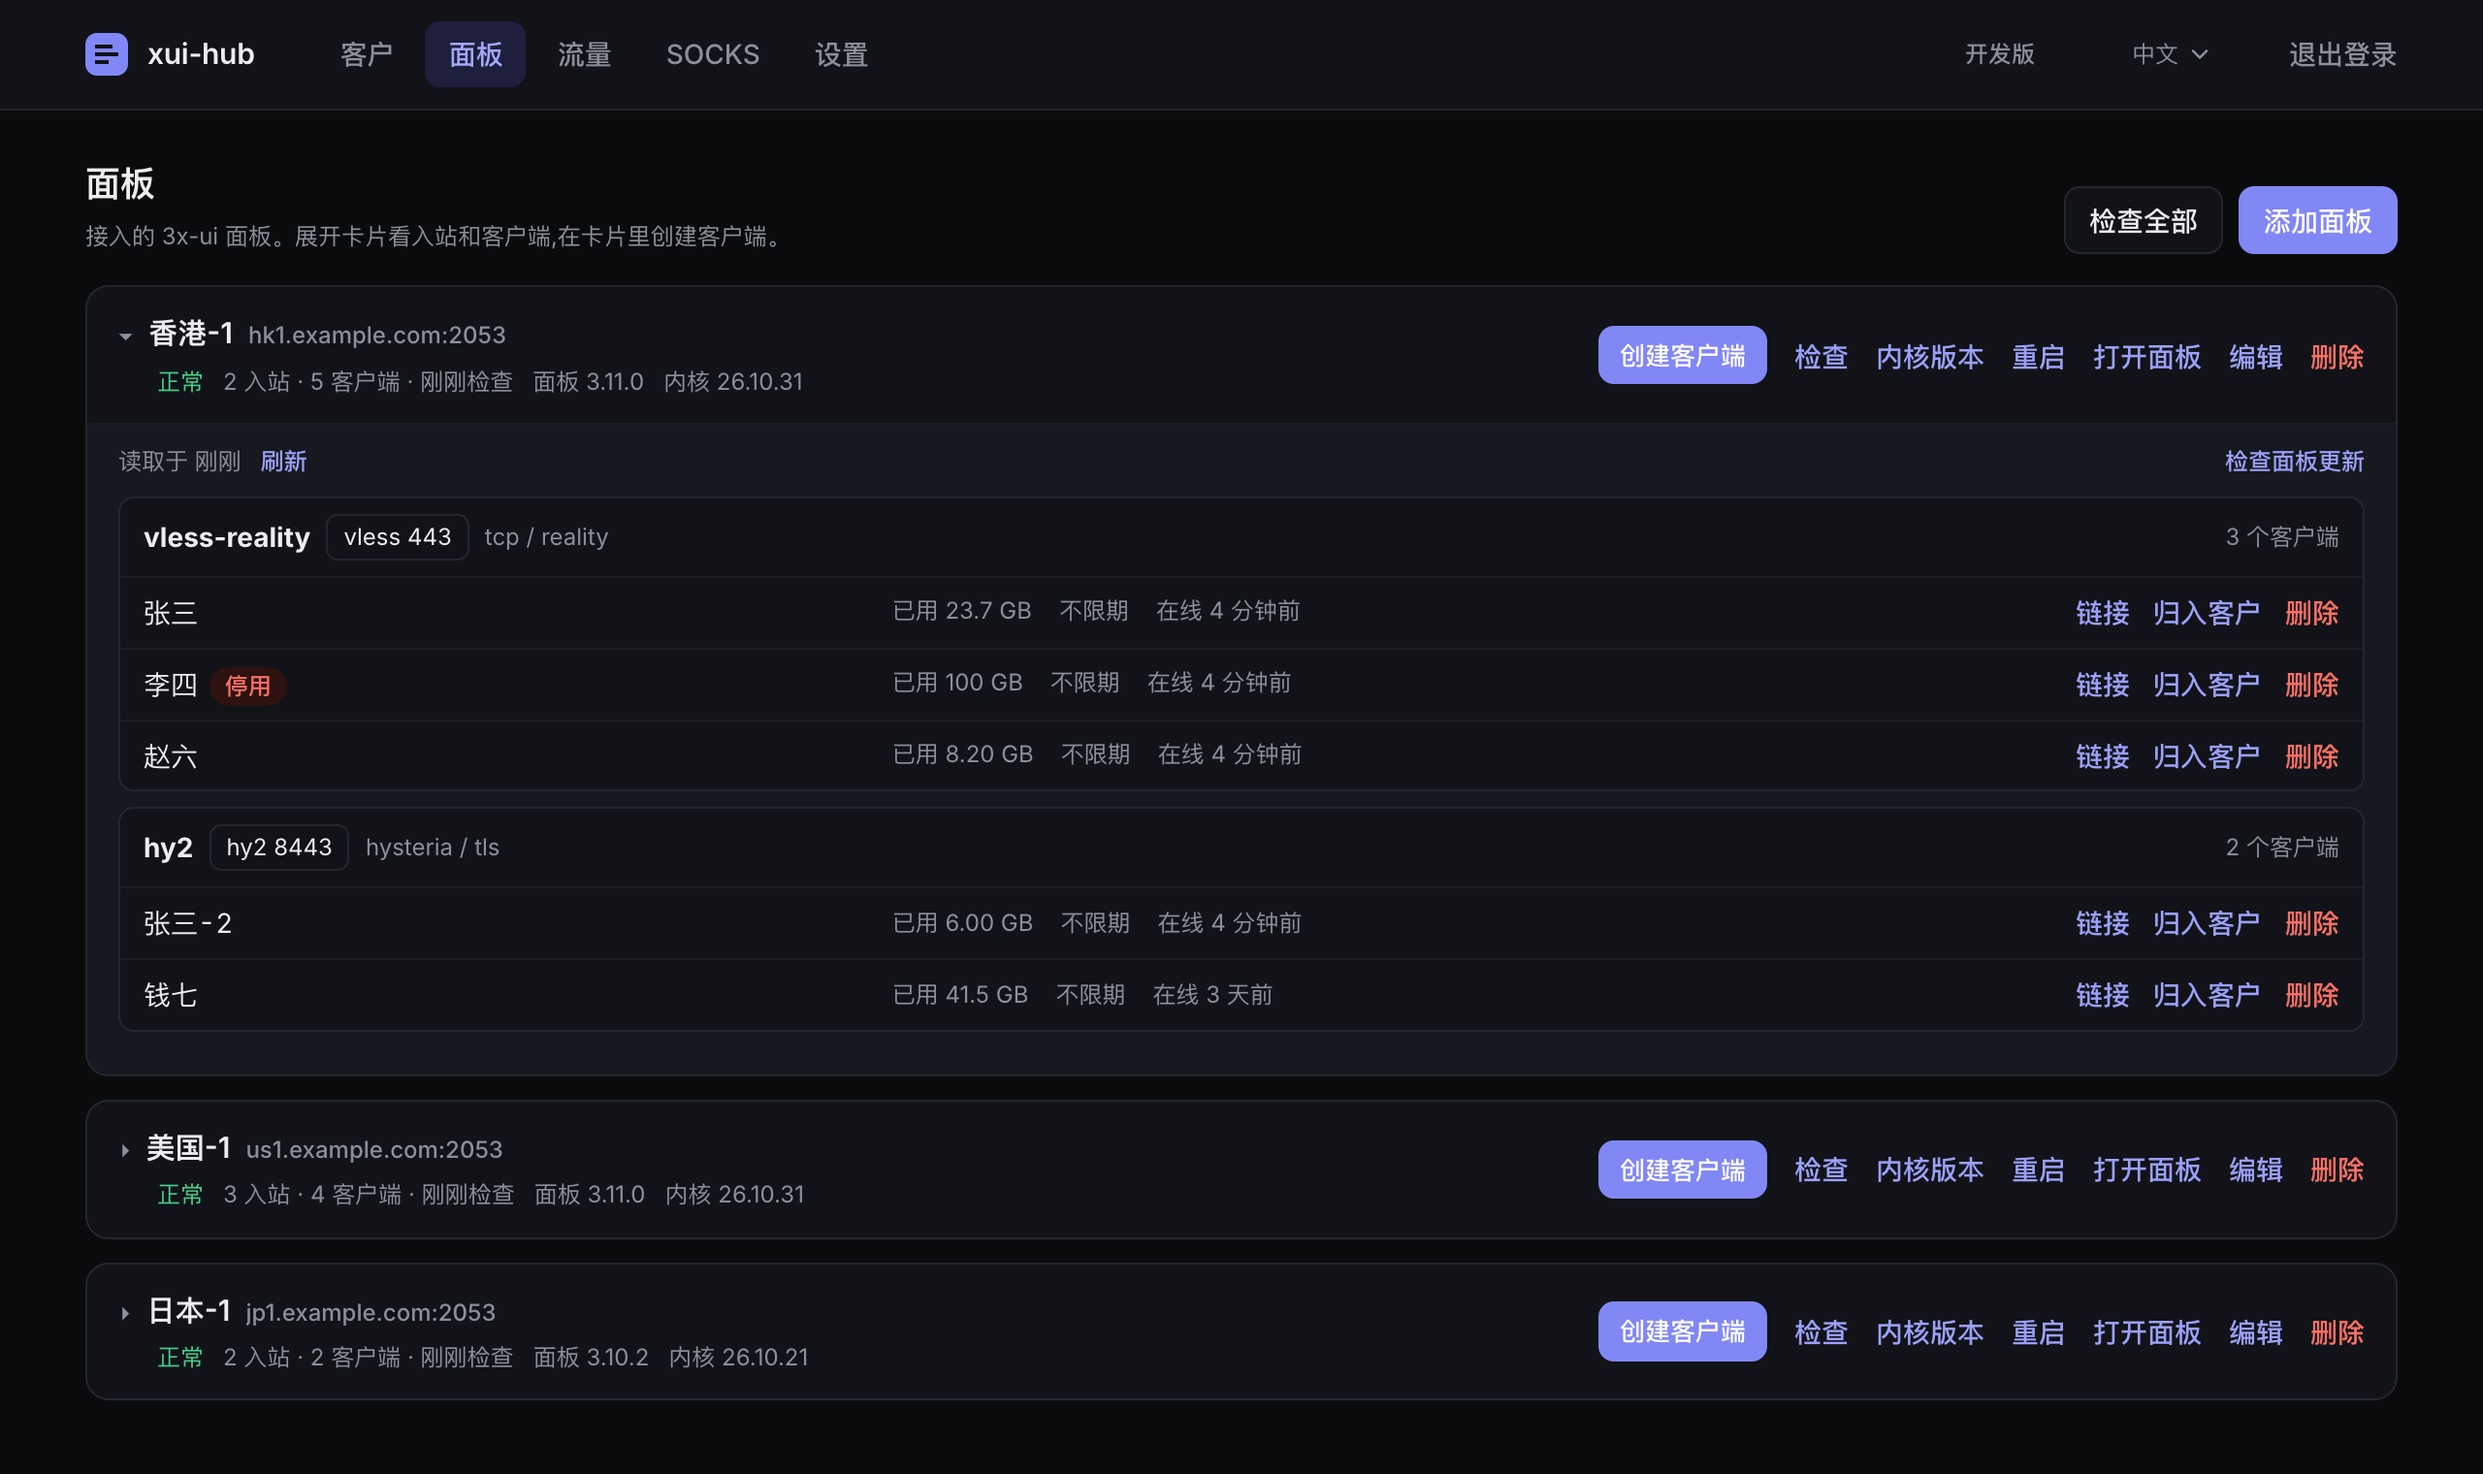
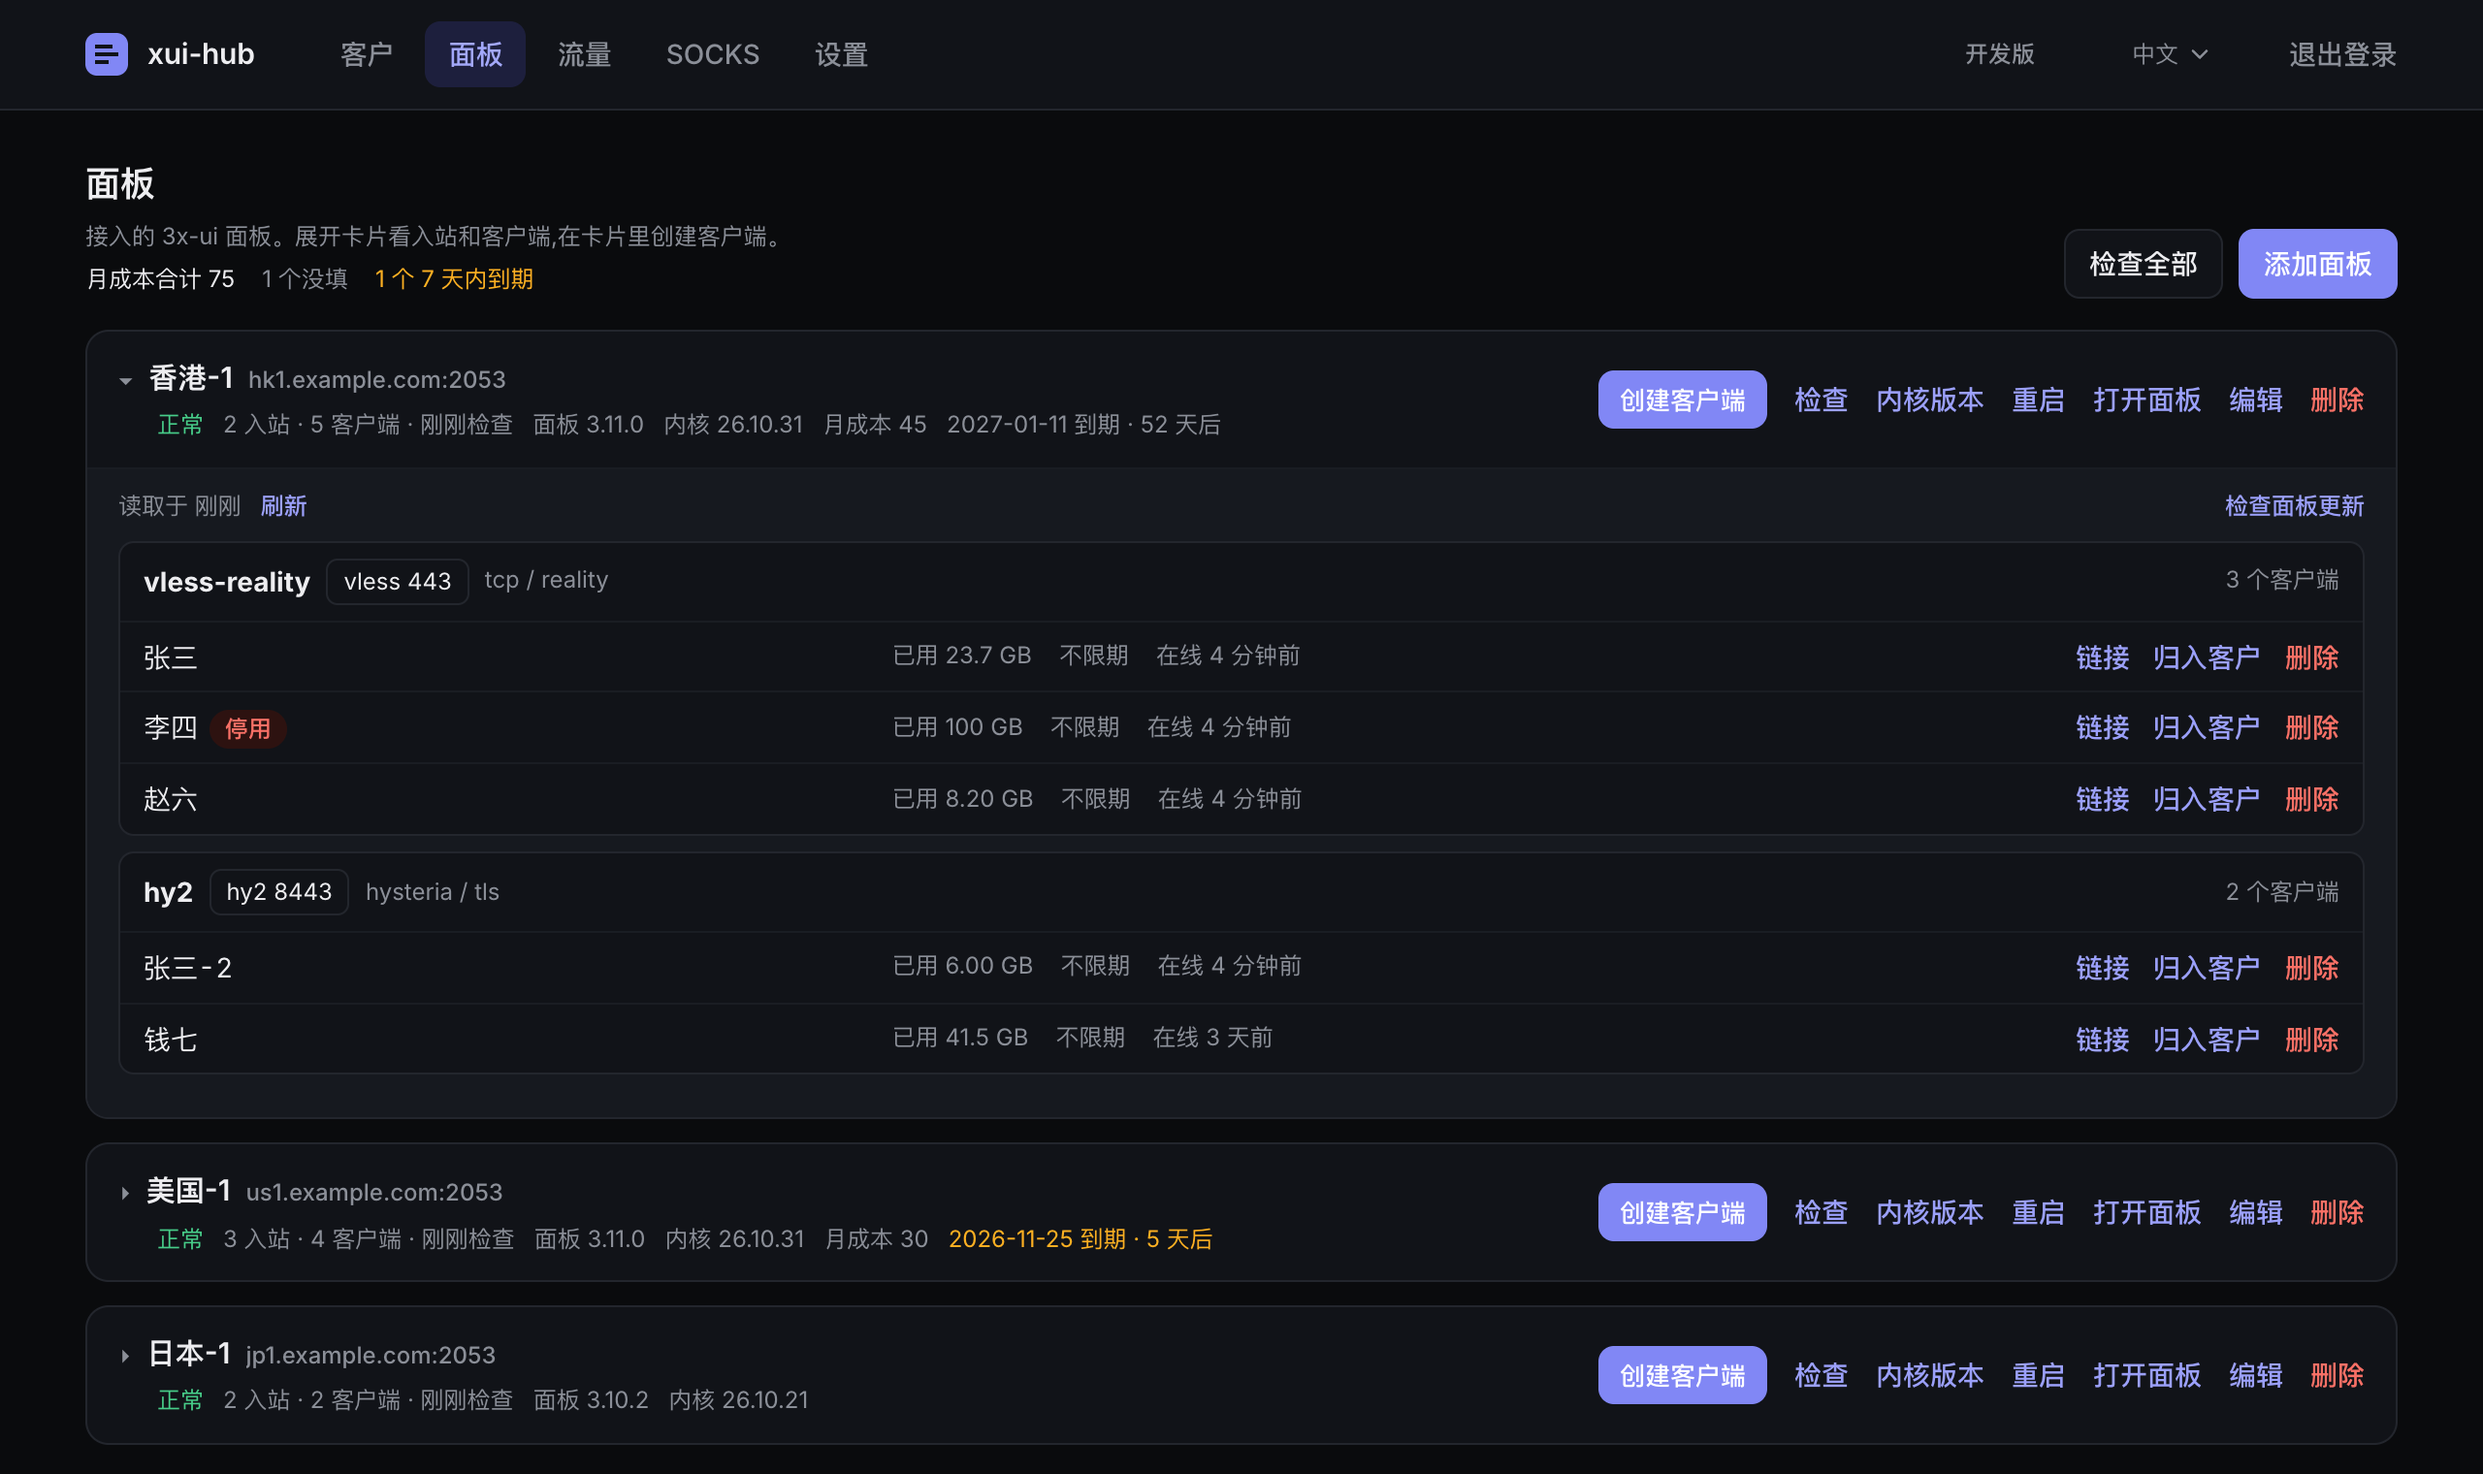
fix: SOCKS 显示精简(出口下拉只显示 IP,列表去掉地址和账号) (#7)
开线路选 SOCKS 出口的下拉只显示 IP(名字和 IP 不同时显示「名字(IP)」,同 IP 多端口才带端口);SOCKS 列表去掉地址和账号两列,地址放到名称的悬停提示和编辑弹窗里;README 截图按新界面重截。

diff --git a/web/src/views/Socks.vue b/web/src/views/Socks.vue
@@ -121,8 +121,6 @@ async function remove(s: Socks) {
         <thead>
           <tr>
             <th>{{ t('socks.colName') }}</th>
-            <th>{{ t('socks.colAddress') }}</th>
-            <th>{{ t('socks.colAccount') }}</th>
             <th>{{ t('socks.colCheck') }}</th>
             <th>{{ t('socks.colExit') }}</th>
             <th>{{ t('socks.colUsed') }}</th>
@@ -134,20 +132,18 @@ async function remove(s: Socks) {
         </thead>
         <tbody>
           <tr v-for="s in list" :key="s.id">
-            <td class="name">{{ s.name }}</td>
-            <td class="mono">{{ s.host }}:{{ s.port }}</td>
-            <td class="muted">{{ s.username || t('socks.noAccount') }}<template v-if="s.has_password"> / ••••</template></td>
+            <td class="name" :title="`${s.host}:${s.port}`">{{ s.name }}</td>
             <td class="small">
               <template v-if="checking.has(s.id)"><span class="muted">{{ t('socks.testing') }}</span></template>
               <template v-else-if="!s.check"><span class="muted">{{ t('socks.neverTested') }}</span></template>
               <template v-else-if="s.check.ok"><span class="text-ok">{{ t('socks.ok') }}</span> <span class="muted">{{ s.check.ms }} ms · {{ fmtAgo(s.check.at) }}</span></template>
               <template v-else><span class="text-err" :title="s.check.error ?? ''">{{ t('socks.failed') }}</span> <span class="muted">{{ (s.check.error ?? '').slice(0, 40) }} · {{ fmtAgo(s.check.at) }}</span></template>
             </td>
-            <td class="small">
+            <td class="small nowrap">
               <template v-if="s.check?.ok">{{ s.check.ip }} <span class="muted">{{ region(s.check.loc) }}</span></template>
               <span v-else class="muted">—</span>
             </td>
-            <td class="small"><template v-if="s.used_by">{{ t('socks.usedBy', { n: s.used_by }, s.used_by) }}</template><span v-else class="muted">—</span></td>
+            <td class="small nowrap"><template v-if="s.used_by">{{ t('socks.usedBy', { n: s.used_by }, s.used_by) }}</template><span v-else class="muted">—</span></td>
             <td class="small mono"><template v-if="s.monthly_cost != null">{{ fmtCost(s.monthly_cost) }}</template><span v-else class="muted">—</span></td>
             <td class="small nowrap">
               <template v-if="s.expire_at">{{ fmtDate(s.expire_at) }} <span :class="dueClass(s.expire_at, 'muted')">{{ fmtDue(s.expire_at) }}</span></template>
@@ -172,7 +168,7 @@ async function remove(s: Socks) {
     <form id="socks-form" class="form" @submit.prevent="submit">
       <label class="field">{{ t('socks.name') }}<input v-model="form.name" required :placeholder="t('socks.namePlaceholder')" /></label>
       <label class="field">
-        {{ t('socks.address') }}{{ editing ? t('socks.keepBlank') : '' }}
+        {{ t('socks.address') }}{{ editing ? t('socks.keepBlankCurrent', { addr: `${editing.host}:${editing.port}` }) : '' }}
         <input v-model="form.address" :required="!editing" :placeholder="t('socks.addressPlaceholder')" autocomplete="off" />
       </label>
       <div class="two">

diff --git a/web/src/views/Customers.vue b/web/src/views/Customers.vue
@@ -227,7 +227,13 @@ const PROTOCOL_OPTIONS: SelectOption<ClientProtocol>[] = [
   { value: 'hy2', label: 'hy2(hysteria2)' },
 ];
 const panelOptions = (list: Panel[]): SelectOption<number>[] => list.map((p) => ({ value: p.id, label: p.name + (p.check_error ? t('customers.unreachable') : ''), disabled: !!p.check_error }));
-const socksOptions = computed<SelectOption<number>[]>(() => socksList.value.map((s) => ({ value: s.id, label: `${s.name} · ${s.host}:${s.port}${s.check ? (s.check.ok ? t('customers.socksOk') : t('customers.socksBad')) : ''}` })));
+/** 出口下拉:只显示 IP(同一 IP 有几个端口时带上端口);名字和 IP 不一样时名字放前面 */
+const socksOptions = computed<SelectOption<number>[]>(() =>
+  socksList.value.map((s) => {
+    const addr = socksList.value.some((o) => o.id !== s.id && o.host === s.host) ? `${s.host}:${s.port}` : s.host;
+    return { value: s.id, label: s.name === s.host || s.name === addr ? addr : `${s.name}(${addr})` };
+  }),
+);
 const templateOptions = computed<SelectOption<string>[]>(() => [...templates.value.map((x) => ({ value: x.id === templateDefault.value ? '' : x.id, label: `${tplText(x, 'name')} — ${tplText(x, 'desc')}` })), { value: 'custom', label: t('customers.customTemplateOption') }]);
 
 function openLineFor(c: Customer) {

diff --git a/web/src/i18n/en.ts b/web/src/i18n/en.ts
@@ -165,13 +165,10 @@ const en: Messages = {
     testing: 'Testing…',
     add: 'Add SOCKS',
     colName: 'Name',
-    colAddress: 'Address',
-    colAccount: 'Account',
     colCheck: 'Connectivity',
     colExit: 'Exit',
     colUsed: 'In use',
     colRemark: 'Note',
-    noAccount: 'none',
     neverTested: 'Not tested',
     ok: 'OK',
     failed: 'Failed',
@@ -182,7 +179,7 @@ const en: Messages = {
     name: 'Name',
     namePlaceholder: 'e.g. US-residential-1',
     address: 'Address',
-    keepBlank: ' (leave blank to keep)',
+    keepBlankCurrent: ' (leave blank to keep, currently {addr})',
     addressPlaceholder: "socks5://user:pass{'@'}host:port or host:port:user:pass",
     remark: 'Note',
     remarkPlaceholder: 'Provider, etc.',
@@ -498,8 +495,6 @@ const en: Messages = {
     exitDirect: 'Straight out of this panel',
     exitSocks: 'Out through a SOCKS proxy',
     noSocks: ' (none registered on the SOCKS page)',
-    socksOk: ' · OK',
-    socksBad: ' · last test failed',
     openedSummary: '{exit}. The client is on inbound {inbound} ({proto}) of {panel}, named {email}. Send the link or QR code to the customer.',
     open: 'Open',
     opening: 'Opening…',

diff --git a/web/src/i18n/zh.ts b/web/src/i18n/zh.ts
@@ -163,13 +163,10 @@ export default {
     testing: '测试中…',
     add: '添加 SOCKS',
     colName: '名称',
-    colAddress: '地址',
-    colAccount: '账号',
     colCheck: '连通性',
     colExit: '出口',
     colUsed: '在用',
     colRemark: '备注',
-    noAccount: '无',
     neverTested: '没测过',
     ok: '可用',
     failed: '失败',
@@ -180,7 +177,7 @@ export default {
     name: '名称',
     namePlaceholder: '如 美国家宽-1',
     address: '地址',
-    keepBlank: '(留空不修改)',
+    keepBlankCurrent: '(留空不修改,现在是 {addr})',
     addressPlaceholder: "socks5://用户:密码{'@'}主机:端口 或 主机:端口:用户:密码",
     remark: '备注',
     remarkPlaceholder: '代理商之类',
@@ -496,8 +493,6 @@ export default {
     exitDirect: '从这块面板直出',
     exitSocks: '经 SOCKS 代理出去',
     noSocks: '(SOCKS 页还没登记)',
-    socksOk: ' · 可用',
-    socksBad: ' · 上次测试失败',
     openedSummary: '{exit},客户端在 {panel} 的入站 {inbound}({proto}),名字 {email}。把链接或二维码发给客户。',
     open: '开通',
     opening: '开通中…',
